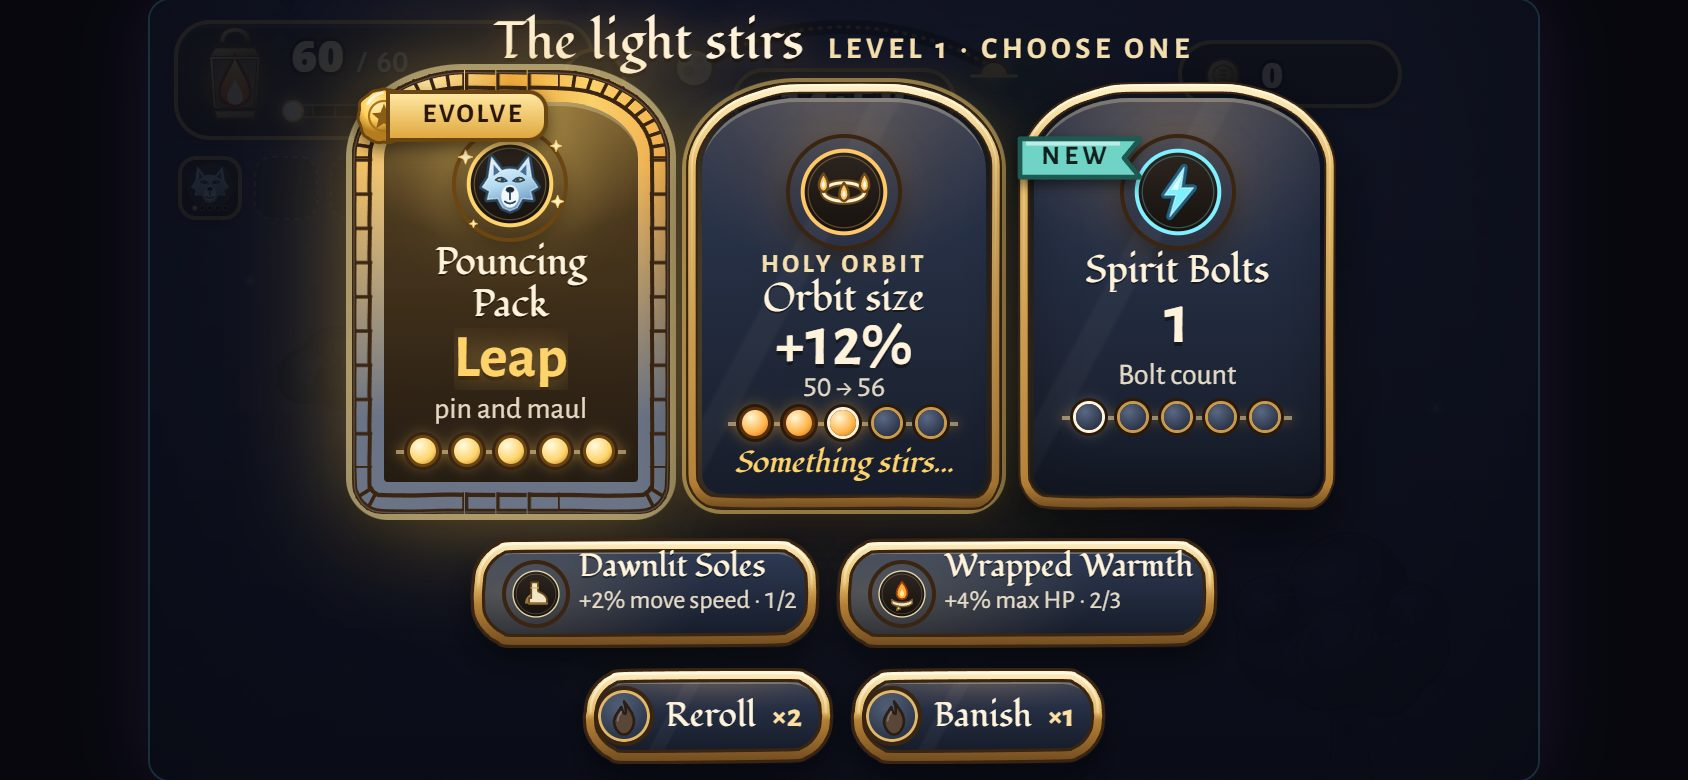
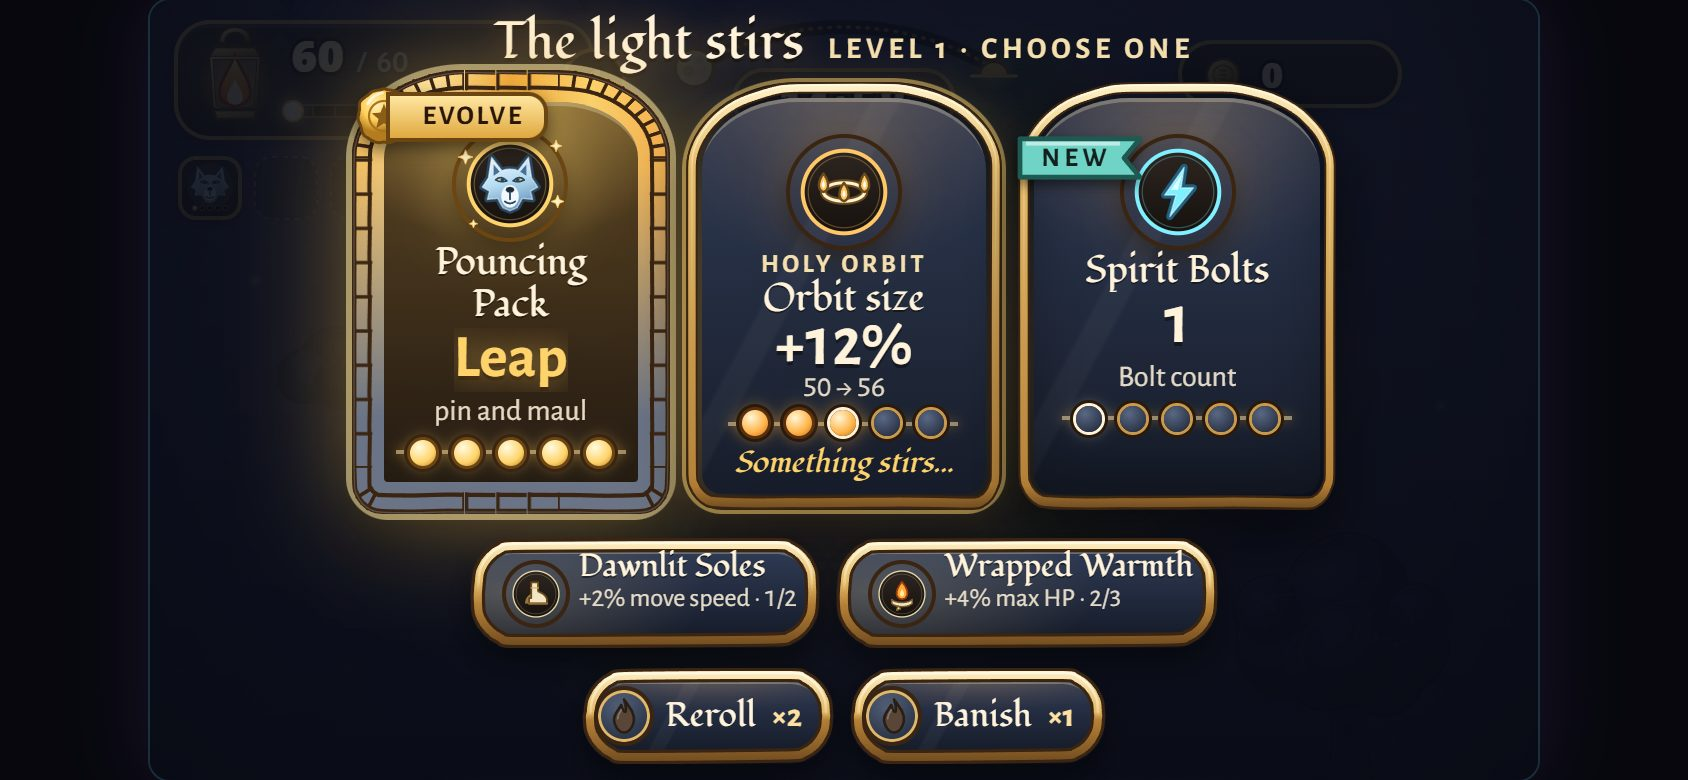
Blessing pill shows the effect-first line plus rank (compact line kept for landscape)

diff --git a/src/cards.css b/src/cards.css
@@ -82,6 +82,8 @@
 .card.quiet .c-icon { grid-row: 1 / span 2; grid-column: 1; width: max(36px, calc(46 * var(--u))); height: max(36px, calc(46 * var(--u))); margin: 0; box-shadow: 0 0 0 2px #3a2412; }
 .layer-levelup .card.quiet .c-title { grid-column: 2; margin: 0; font-size: max(18px, calc(21 * var(--u))); -webkit-line-clamp: 1; }
 .layer-levelup .card.quiet .c-unit { grid-column: 2; font-size: max(14px, calc(15 * var(--u))); color: var(--lg-dim); text-overflow: ellipsis; }
+.card.quiet .u-short { display: none; }
+.layer-levelup .card.quiet .c-unit { white-space: normal; line-height: 1.15; display: -webkit-box; -webkit-box-orient: vertical; -webkit-line-clamp: 2; overflow: hidden; }
 .layer-levelup .card.quiet:has(.c-whisper) .c-title { grid-row: 1; }
 .layer-levelup .card.quiet:has(.c-whisper) .c-unit { grid-row: 2; }
 .layer-levelup .card.quiet .c-whisper { grid-column: 2; grid-row: 3; max-width: calc(100% + 34 * var(--u)); margin-right: calc(-34 * var(--u)); justify-self: stretch; font: italic 400 max(13px, calc(13 * var(--u)))/1.2 var(--font-body); color: var(--lg-brass-text); opacity: .9; overflow: hidden; text-overflow: ellipsis; white-space: nowrap; }
@@ -131,6 +133,9 @@ html.touch .c-key { display: none; }
   .lu-quietwrap { width: auto; flex-direction: row; }
   .lu-qlabel { display: none; }
   .layer-levelup .card.quiet .c-whisper { display: none; }
+  .card.quiet .u-long { display: none; }
+  .card.quiet .u-short { display: inline; }
+  .layer-levelup .card.quiet .c-unit { white-space: nowrap; display: block; }
   .lu-quiet { display: flex; gap: 8px; }
   .layer-levelup .card.quiet { padding: 0 36px 0 12px; min-width: 0; min-height: 48px; column-gap: 6px; }
   html.touch .layer-levelup .card.quiet { padding-right: 6px; }
@@ -194,7 +199,9 @@ html.touch .c-key { display: none; }
   .card.quiet .c-title, .card.quiet .c-unit { grid-column: 2; }
   .layer-levelup .card.quiet .c-whisper { display: none; } /* half-width pills: no room for a third line */
   .layer-levelup .card.quiet .c-title { font-size: 18px; -webkit-line-clamp: 2; line-height: 1.05; }
-  .layer-levelup .card.quiet .c-unit { font-size: 14px; white-space: normal; line-height: 1.15; }
+  .layer-levelup .card.quiet .c-unit { font-size: 14px; white-space: normal; line-height: 1.15; display: -webkit-box; -webkit-line-clamp: 4; }
+  .card.quiet .u-long { display: inline; }
+  .card.quiet .u-short { display: none; }
   .lu-actions { width: 100%; gap: 10px; flex-wrap: nowrap; }
   .layer-levelup .lu-btn { flex: 1; justify-content: center; min-height: 52px; }
   .layer-levelup .lu-btn .lg-btn__text { flex: none; }

diff --git a/src/ui/cardsui.js b/src/ui/cardsui.js
@@ -9,6 +9,7 @@ export const TITLE_TEXT = 'The light stirs';
 export const QUIET_LABEL = 'Quiet gifts';
 export const QUIET_WHISPER = 'Take one. They ask nothing.';
 export const WHISPER_MAX = 48;
+export const DESC_MAX = 64;
 const now = () => (typeof performance !== 'undefined' ? performance.now() : Date.now());
 
 export class OfferView {
@@ -149,7 +150,11 @@ export class OfferView {
     if (quiet) {
       // Blessing chip: one quiet line "+3% move speed · 1/2" (rank after this pick)
       const rank = m.pips.total ? ` · ${m.pips.filled}/${m.pips.total}` : '';
-      node.appendChild(this.el('div', 'c-unit', clampText(`${m.num} ${m.unit}`.trim() + rank, 34)));
+      // effect-first line (what the Blessing DOES) + rank; the compact number line is kept for the tight landscape strip (CSS swaps them)
+      const unit = this.el('div', 'c-unit');
+      const ed = clampText(c.desc, DESC_MAX);
+      unit.append(this.el('span', 'u-long', ed ? ed + rank : clampText(`${m.num} ${m.unit}`.trim() + rank, 34)), this.el('span', 'u-short', clampText(`${m.num} ${m.unit}`.trim() + rank, 34)));
+      node.appendChild(unit);
       const bd = data && data.blessings && data.blessings.items && Object.hasOwn(data.blessings.items, c.blessId) ? data.blessings.items[c.blessId] : null;
       const wh = bd && typeof bd.whisper === 'string' ? clampText(bd.whisper, WHISPER_MAX) : '';
       if (wh) node.appendChild(this.el('div', 'c-whisper', wh));
